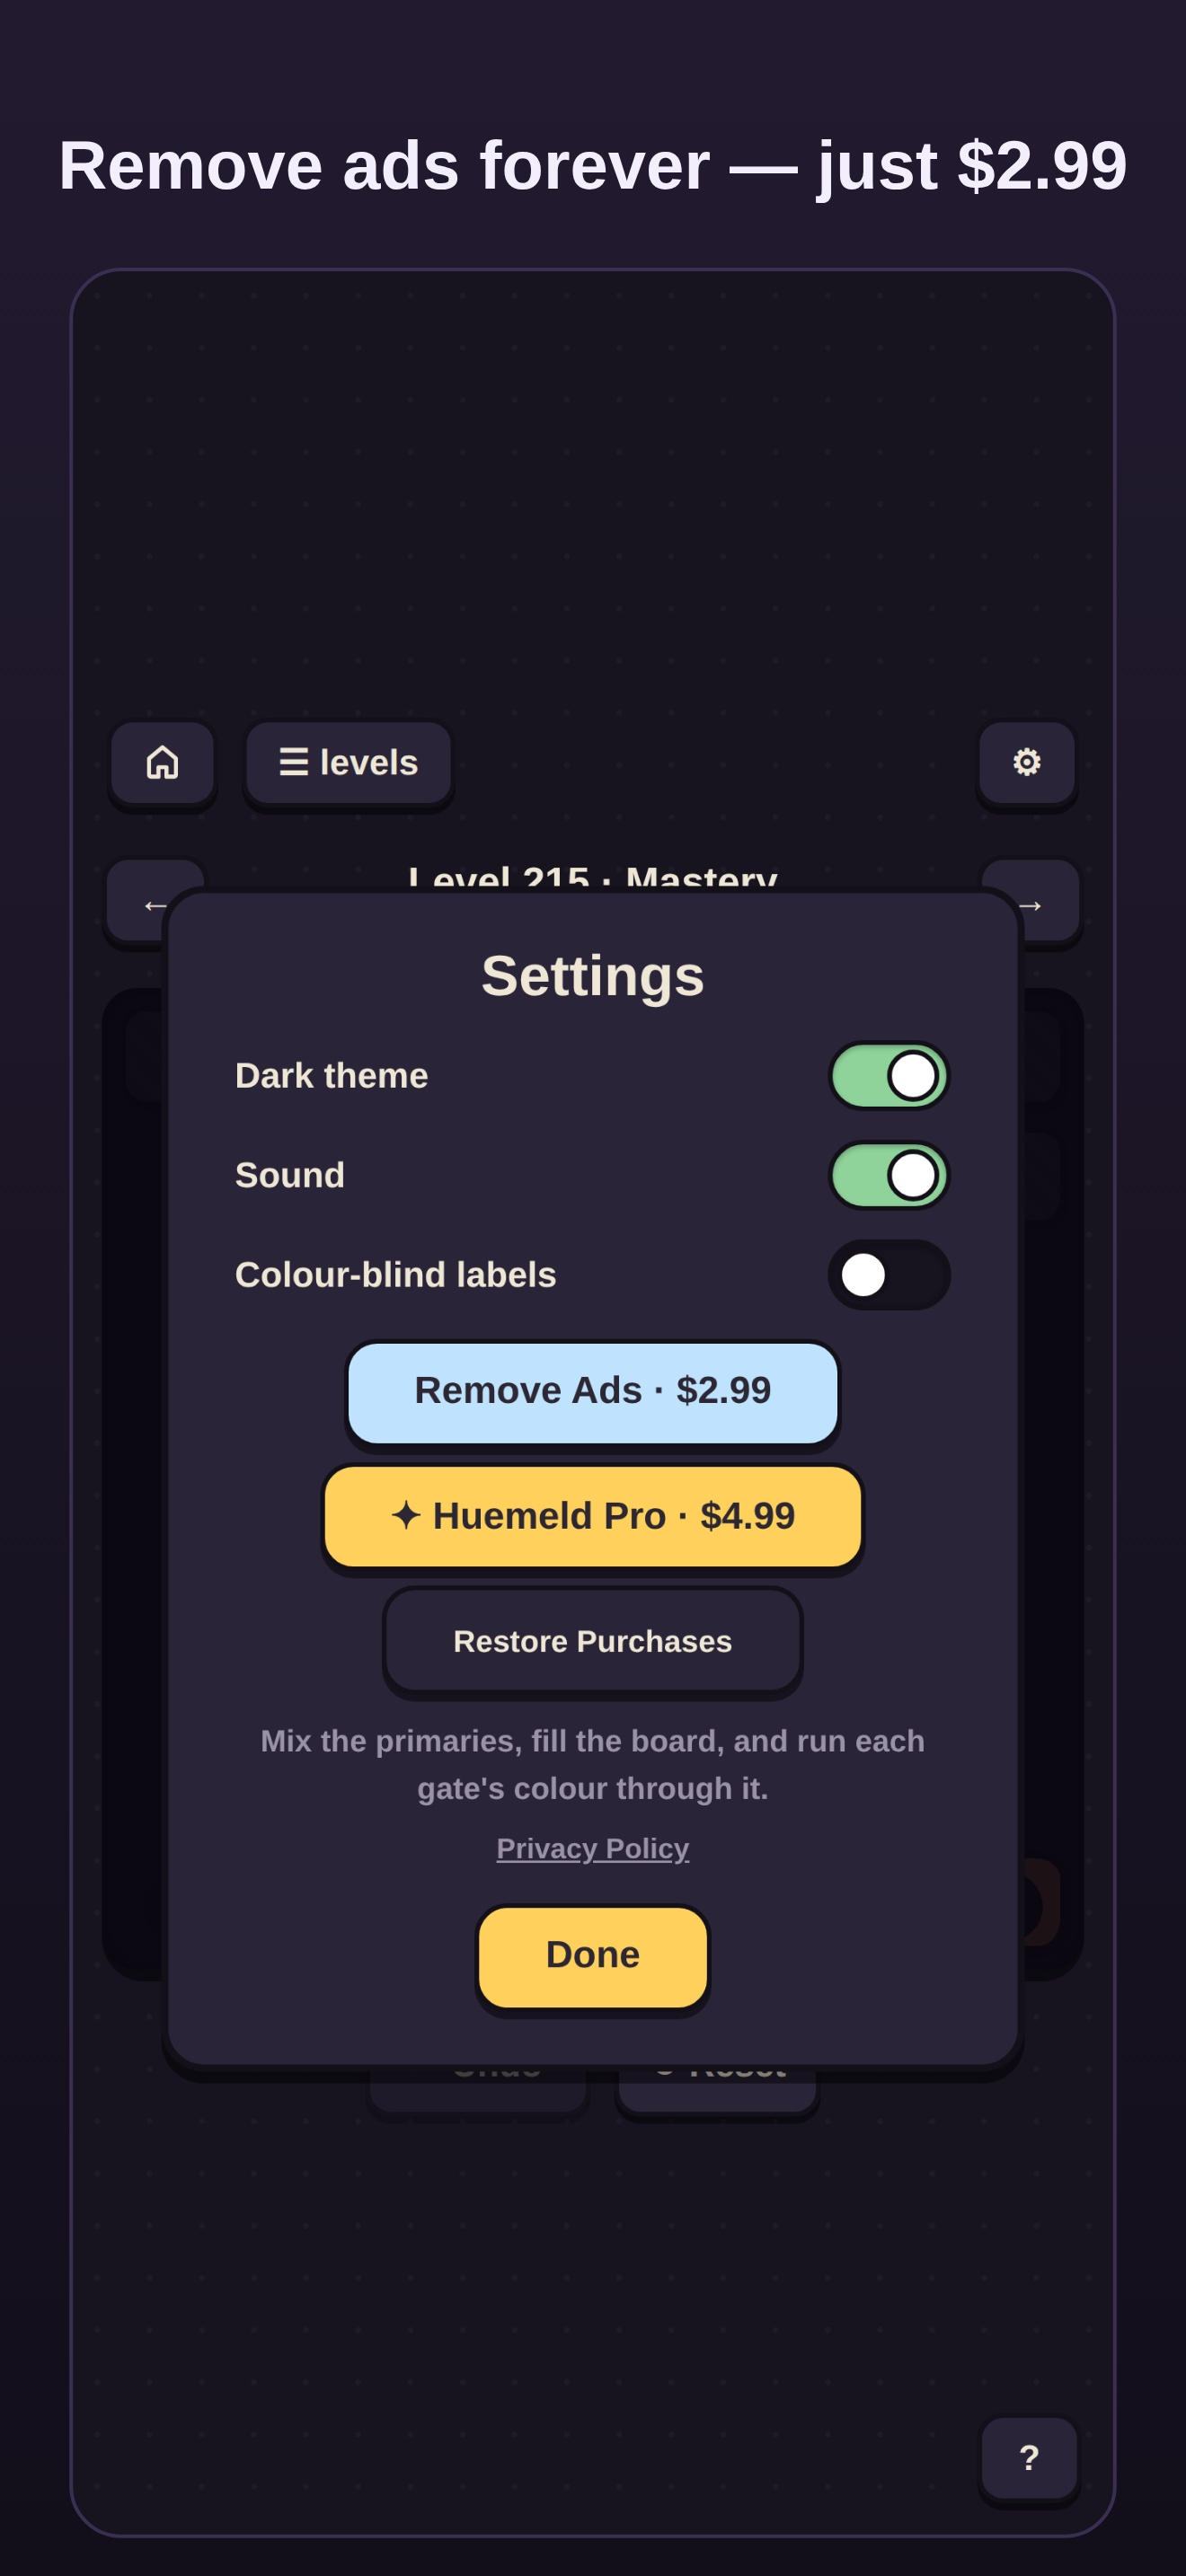
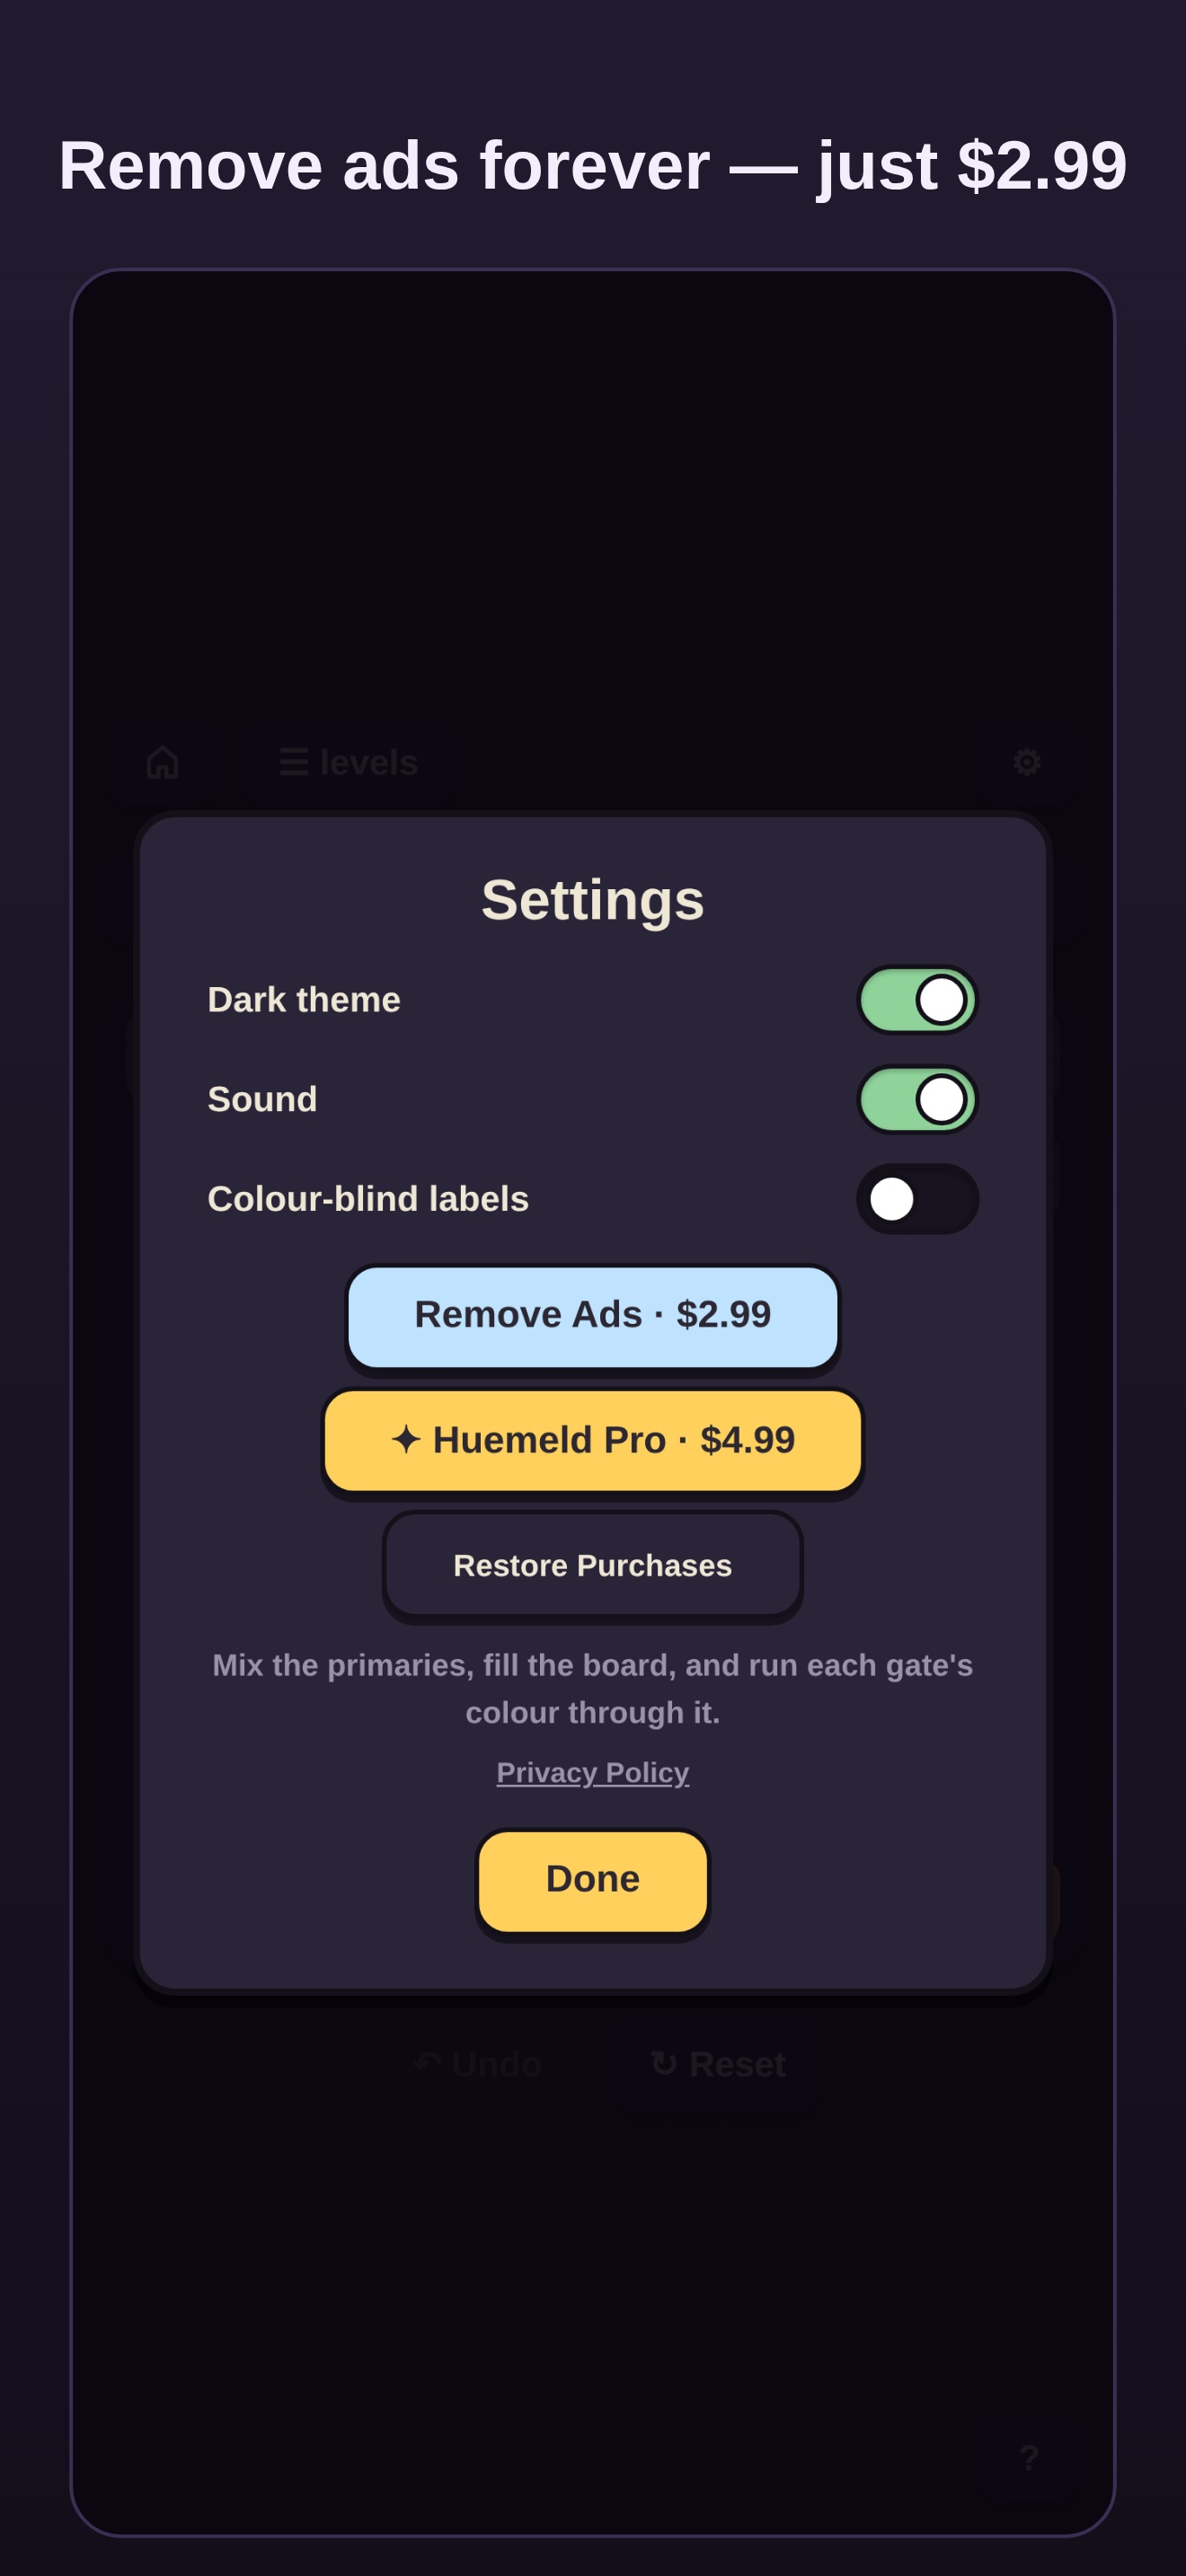
Huemeld: settings overlay fades the WHOLE screen, not just the board
The .ov overlays live inside .boardwrap, so #ovSet (position:absolute)
only dimmed the board — the top bar and level nav above it stayed
bright. Switched #ovSet to position:fixed like the Pro/menu dialogs so
the veil covers the full viewport. Re-shot the no-ads screenshot.

Claude-Session: https://claude.ai/code/session_014DWjXAo2Fi1TbVzmVf7RcE

Changed region(s): [[0.0932, 0.2793, 0.9318, 0.8379], [0.8076, 0.931, 0.9318, 0.993]]

diff --git a/huemeld/flow2.html b/huemeld/flow2.html
@@ -134,7 +134,7 @@ h1{ font-family:var(--font-d); font-weight:700; font-size:24px; line-height:1; }
 .pickcard .pcprog{ margin-left:auto; font-size:12px; font-weight:800; color:var(--ink-soft); white-space:nowrap; padding-left:8px; }
 .mk.pickback{ height:44px; padding:0 18px; font-size:14px; background:var(--card); color:var(--ink); }
 #ovMech{ position:fixed; border-radius:0; background:rgba(10,7,16,.9); }
-#ovSet{ background:rgba(10,7,16,.92); }   /* fade the board behind the settings panel */
+#ovSet{ position:fixed; border-radius:0; background:rgba(10,7,16,.92); }   /* full-screen fade: cover the top bar + nav, not just the board */
 #ovMech .panel{ max-width:320px; }
 #ovMech .mk{ width:100%; height:58px; padding:0 12px; margin-top:10px; }
 .mechicon{ margin:2px 0 6px; }